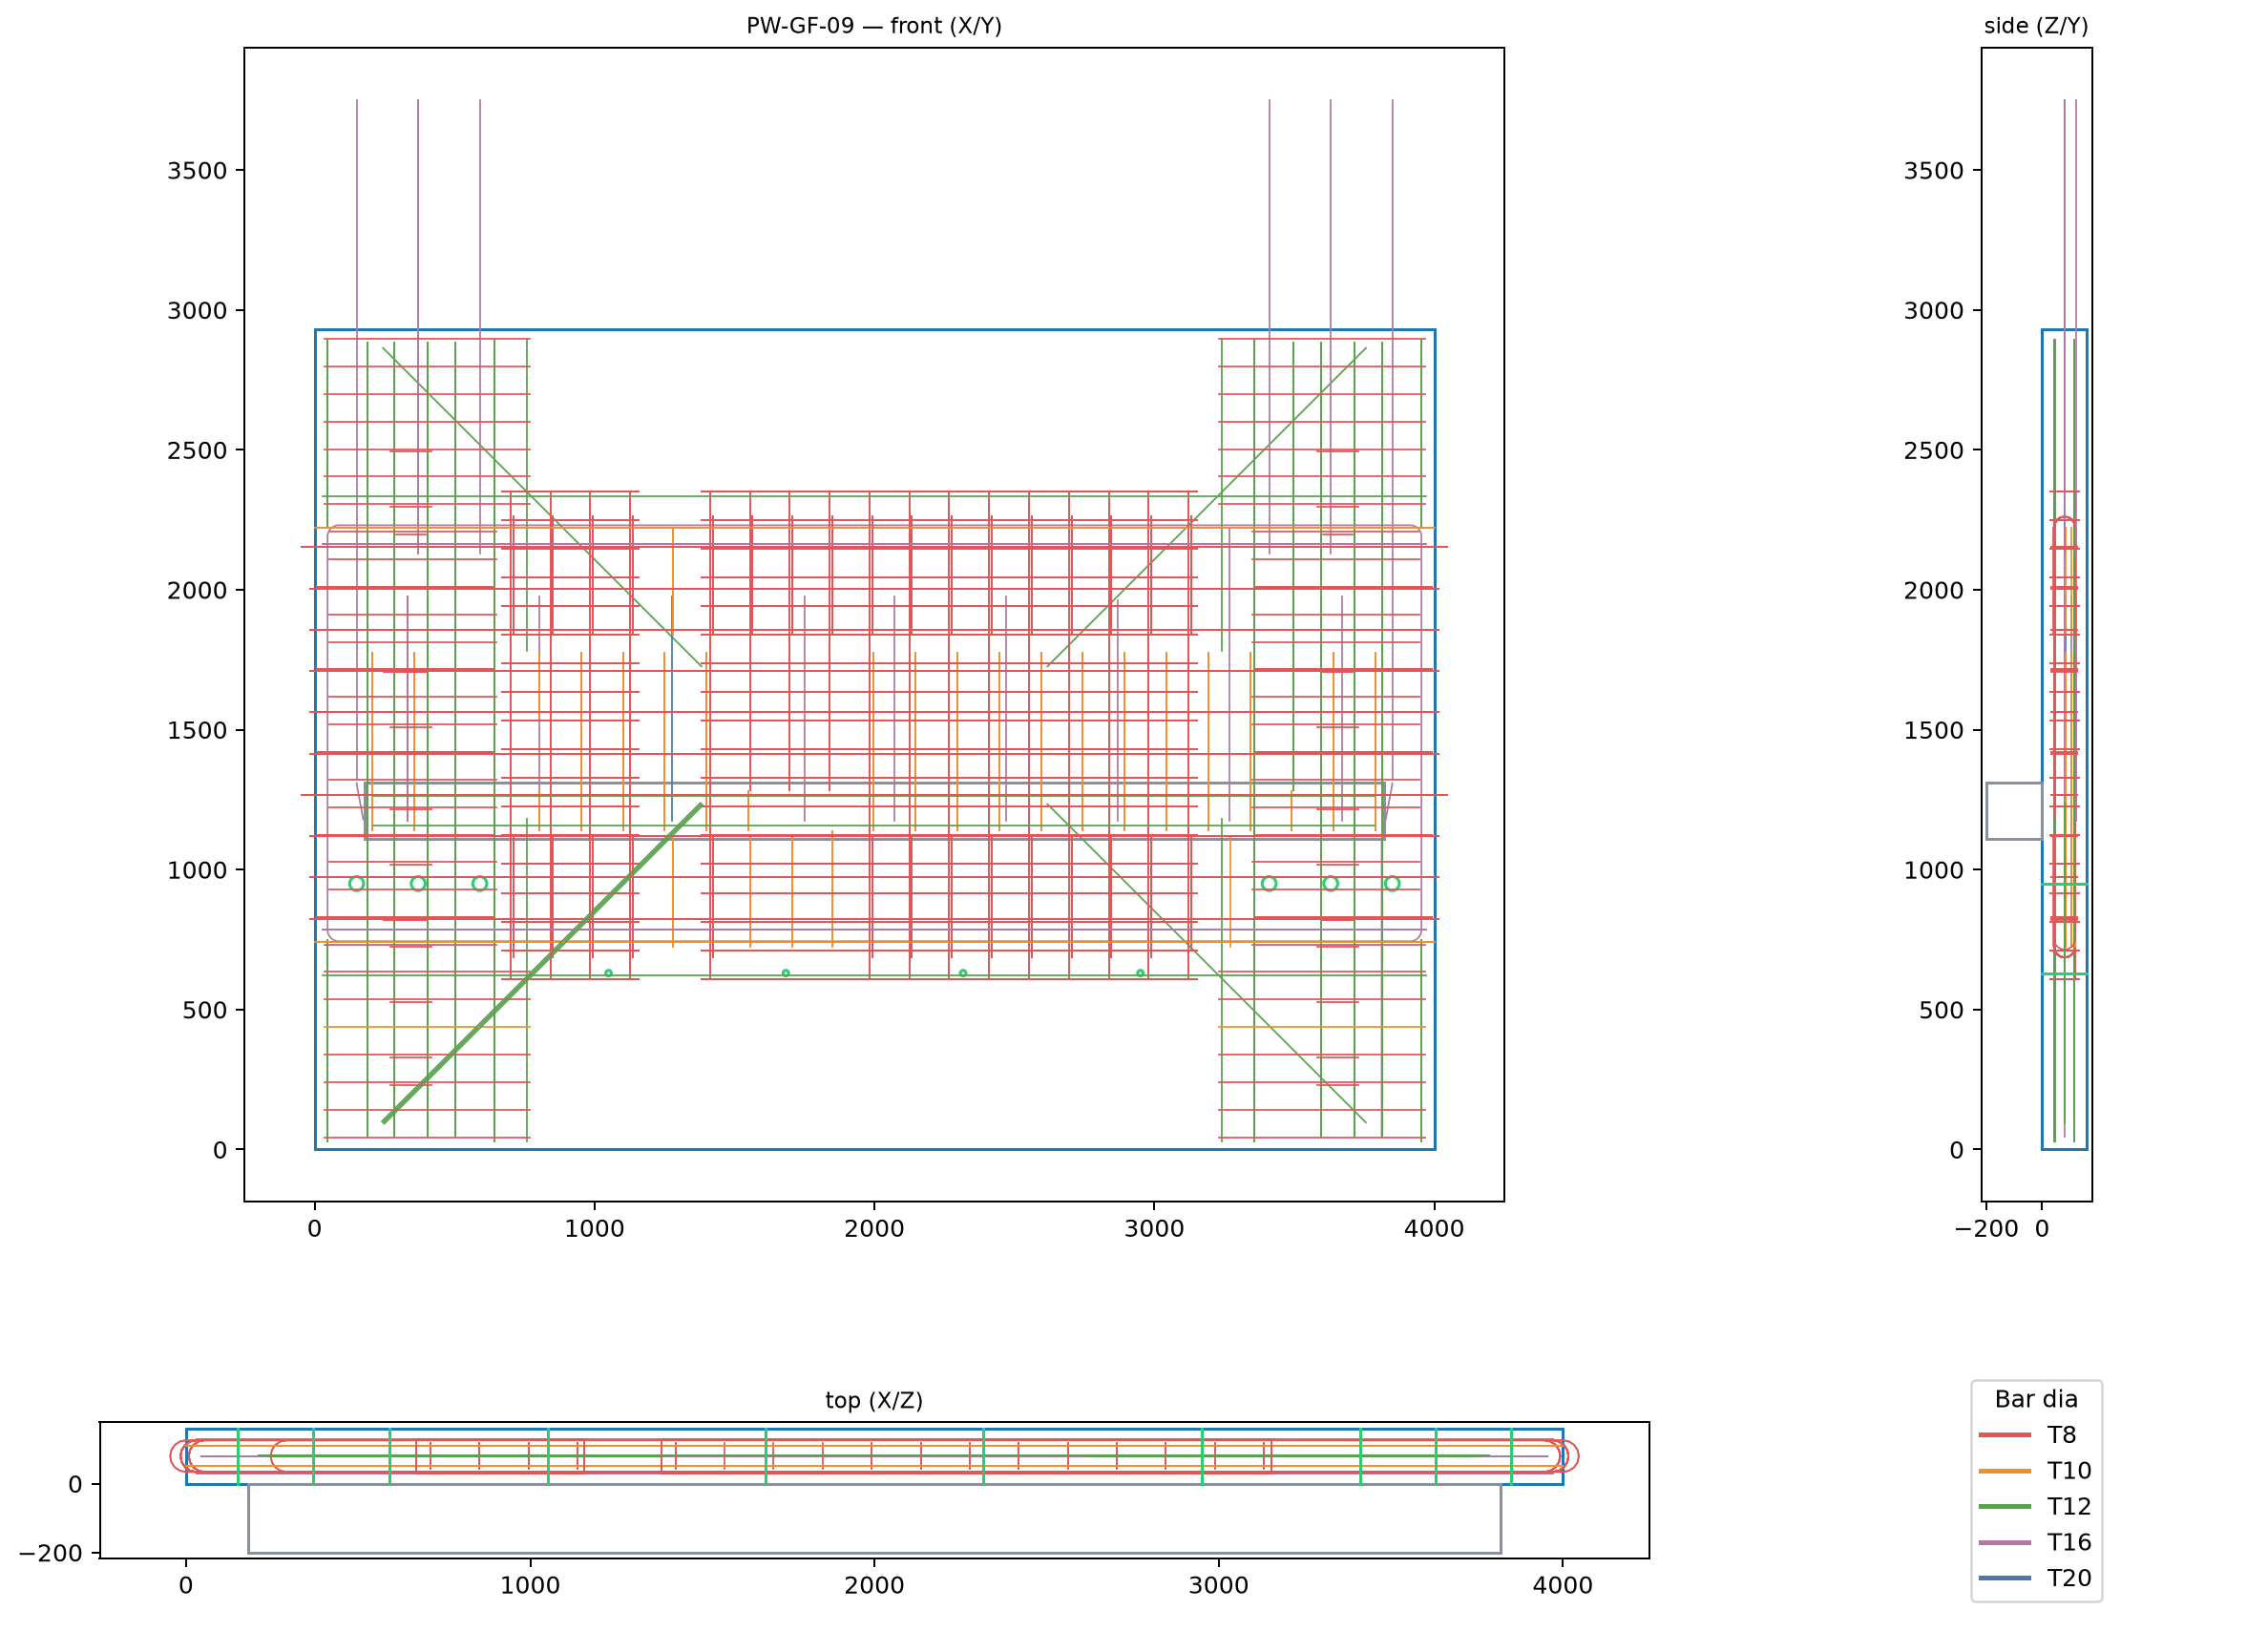
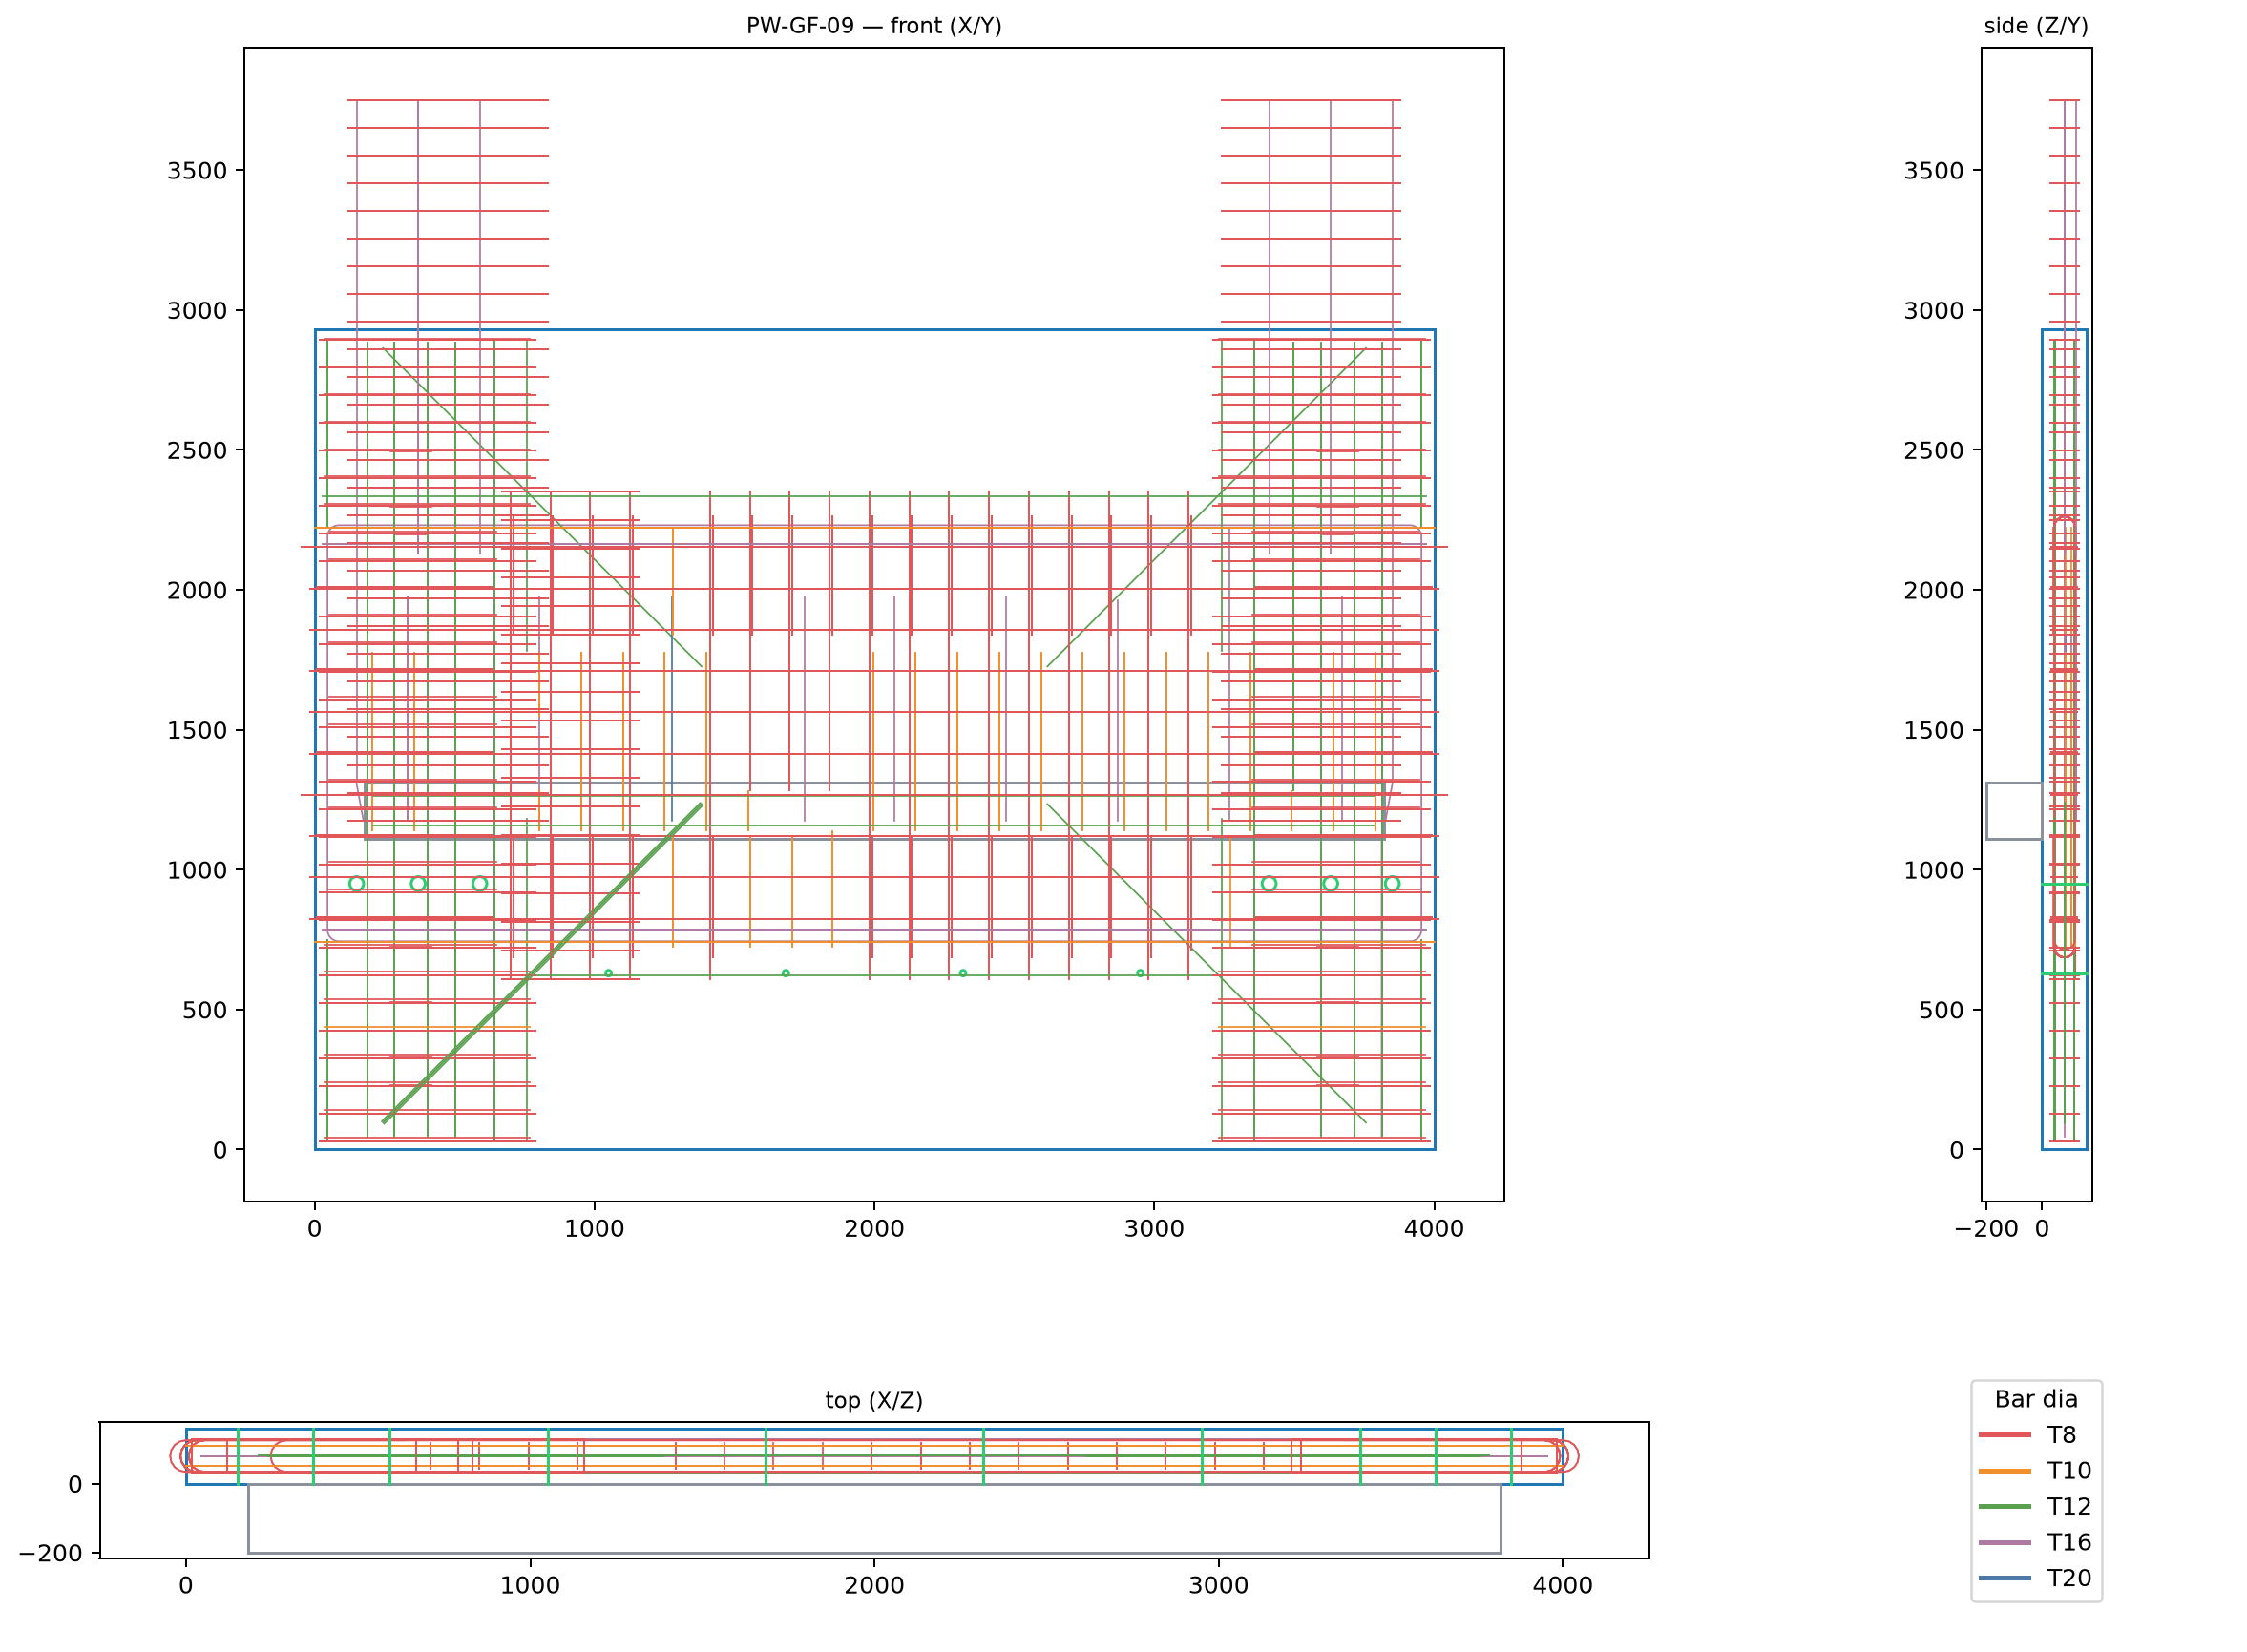
rebar3d: fix tie synthesis clustering the wrong diameter for column detection
Cross-referencing PW-GF-09's detailed BBS found T8 at only 68% of the
official 176.06kg. Root cause: _synthesize_ties clustered v-mesh bars
of the *tie's own* diameter to find "the column" -- but a tie wraps
the column's main longitudinal bars, which are a different (larger)
diameter than the tie itself. A tie's own diameter is usually the
panel's smallest, most common one (T8), so its v-mesh bars are the
general field mesh, not a column. Confirmed directly: clustering on
T8 v-mesh grabbed a contiguous 700-3122mm stretch of ordinary
~140mm-pitch field mesh, since consecutive-gap clustering can't tell
"tight column" from "closely-spaced field mesh" -- both have small
gaps between neighbours.

Fixed to look across *every* diameter for a genuinely tight cluster
(small total span, <=1200mm, not just small gaps between neighbours)
instead of only the tie's own diameter, then use that cluster's real
diameter for the column envelope while still using the tie's own
diameter for the synthesized tie bars themselves.

Result: PW-GF-09 T8 68% -> 95% of BBS (176.06kg official), panel
total 78% -> 90% (390.93kg official). PW-GF-02 unaffected (no "Ties
@" callout in that panel, function returns early as before).
Confirmed visually: ties now correctly wrap both boundary columns as
dense stirrup cages instead of a stray band across the general mesh.

Changed region(s): [[0.1551, 0.2184, 0.2481, 0.4991], [0.5582, 0.2184, 0.6202, 0.4991]]

diff --git a/rebar3d/rebar3d/reconstruct.py b/rebar3d/rebar3d/reconstruct.py
@@ -510,26 +510,45 @@ def _synthesize_ties(bars: list[Bar3D], elev_ents, thickness: float) -> list[Bar
             callouts.append((int(m.group(1)), int(m.group(2))))
     if not callouts:
         return bars
-    dia, pitch = max(set(callouts), key=callouts.count)
+    tie_dia, pitch = max(set(callouts), key=callouts.count)
 
-    vmesh = [b for b in bars if b.kind == "v-mesh" and b.diameter == dia]
-    if not vmesh:
-        return bars
-    xs = sorted(set(b.points[0][0] for b in vmesh))
-    clusters: list[list[float]] = []
-    for x in xs:
-        if clusters and x - clusters[-1][-1] <= 250.0:
-            clusters[-1].append(x)
-        else:
-            clusters.append([x])
+    # A tie wraps the column's *main longitudinal* bars, which are a
+    # different (larger) diameter than the tie itself -- clustering the
+    # tie's own diameter's v-mesh bars to find "the column" is wrong: a
+    # tie's own diameter is usually the smallest, most common one in the
+    # panel (T8), so its v-mesh bars are the general field mesh, not a
+    # column. Confirmed directly: PW-GF-09's "T8 Ties" clustering on T8
+    # v-mesh grabbed a contiguous stretch of ordinary ~140mm-pitch field
+    # mesh (17 bars spanning 700-3122mm) since its gaps are all well under
+    # the 250mm cluster threshold -- there's no way to tell "column" from
+    # "field mesh" by consecutive gap alone when the field mesh is itself
+    # closely spaced. A genuine column is narrow: look across *every*
+    # diameter for a tight cluster (small total span, few hundred mm),
+    # not just small gaps between neighbours.
+    by_dia: dict[int, list[float]] = {}
+    for b in bars:
+        if b.kind == "v-mesh":
+            by_dia.setdefault(b.diameter, []).append(b.points[0][0])
+
+    col_clusters: list[tuple[int, list[float]]] = []
+    for dia, xs in by_dia.items():
+        xs = sorted(set(xs))
+        clusters: list[list[float]] = []
+        for x in xs:
+            if clusters and x - clusters[-1][-1] <= 250.0:
+                clusters[-1].append(x)
+            else:
+                clusters.append([x])
+        for cl in clusters:
+            if len(cl) >= 4 and max(cl) - min(cl) <= 1200.0:
+                col_clusters.append((dia, cl))
 
     cover = 30.0
     out: list[Bar3D] = []
-    for cl in clusters:
-        if len(cl) < 4:  # a handful of scattered bars isn't a column detail
-            continue
+    for dia, cl in col_clusters:
+        col_bars = [b for b in bars if b.kind == "v-mesh" and b.diameter == dia
+                    and min(cl) <= b.points[0][0] <= max(cl)]
         x_lo, x_hi = min(cl) - cover, max(cl) + cover
-        col_bars = [b for b in vmesh if min(cl) <= b.points[0][0] <= max(cl)]
         ys = [p[1] for b in col_bars for p in b.points]
         y_lo, y_hi = min(ys), max(ys)
         z_lo, z_hi = cover, thickness - cover
@@ -538,7 +557,7 @@ def _synthesize_ties(bars: list[Bar3D], elev_ents, thickness: float) -> list[Bar
             y = y_lo + i * (y_hi - y_lo) / max(n - 1, 1)
             pts = [(x_lo, y, z_lo), (x_hi, y, z_lo), (x_hi, y, z_hi),
                    (x_lo, y, z_hi), (x_lo, y, z_lo)]
-            out.append(Bar3D(pts, dia, "tie", "synthesized"))
+            out.append(Bar3D(pts, tie_dia, "tie", "synthesized"))
     return bars + out
 
 